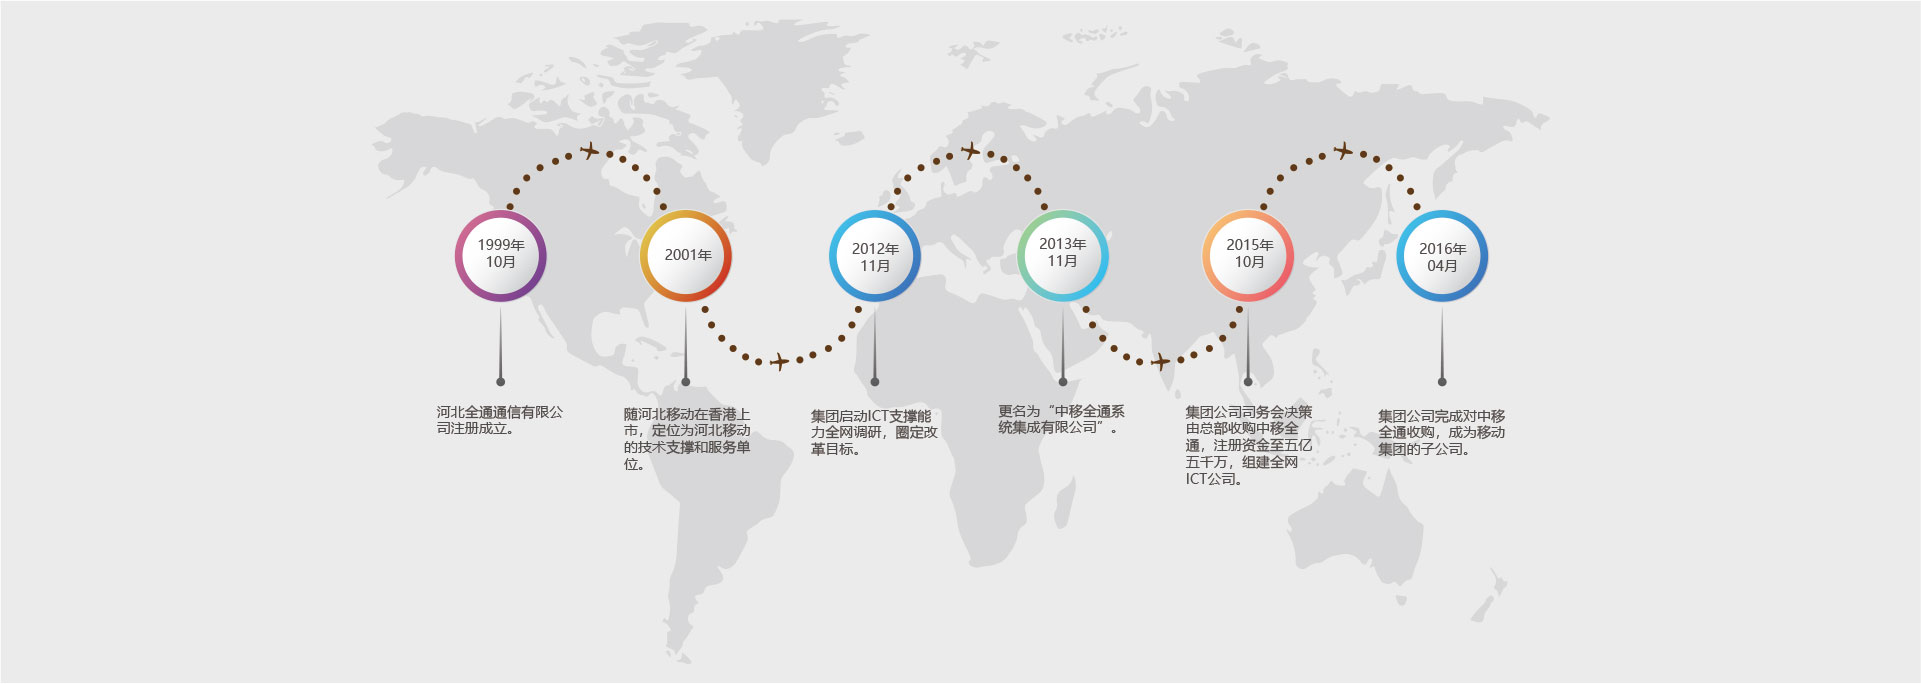
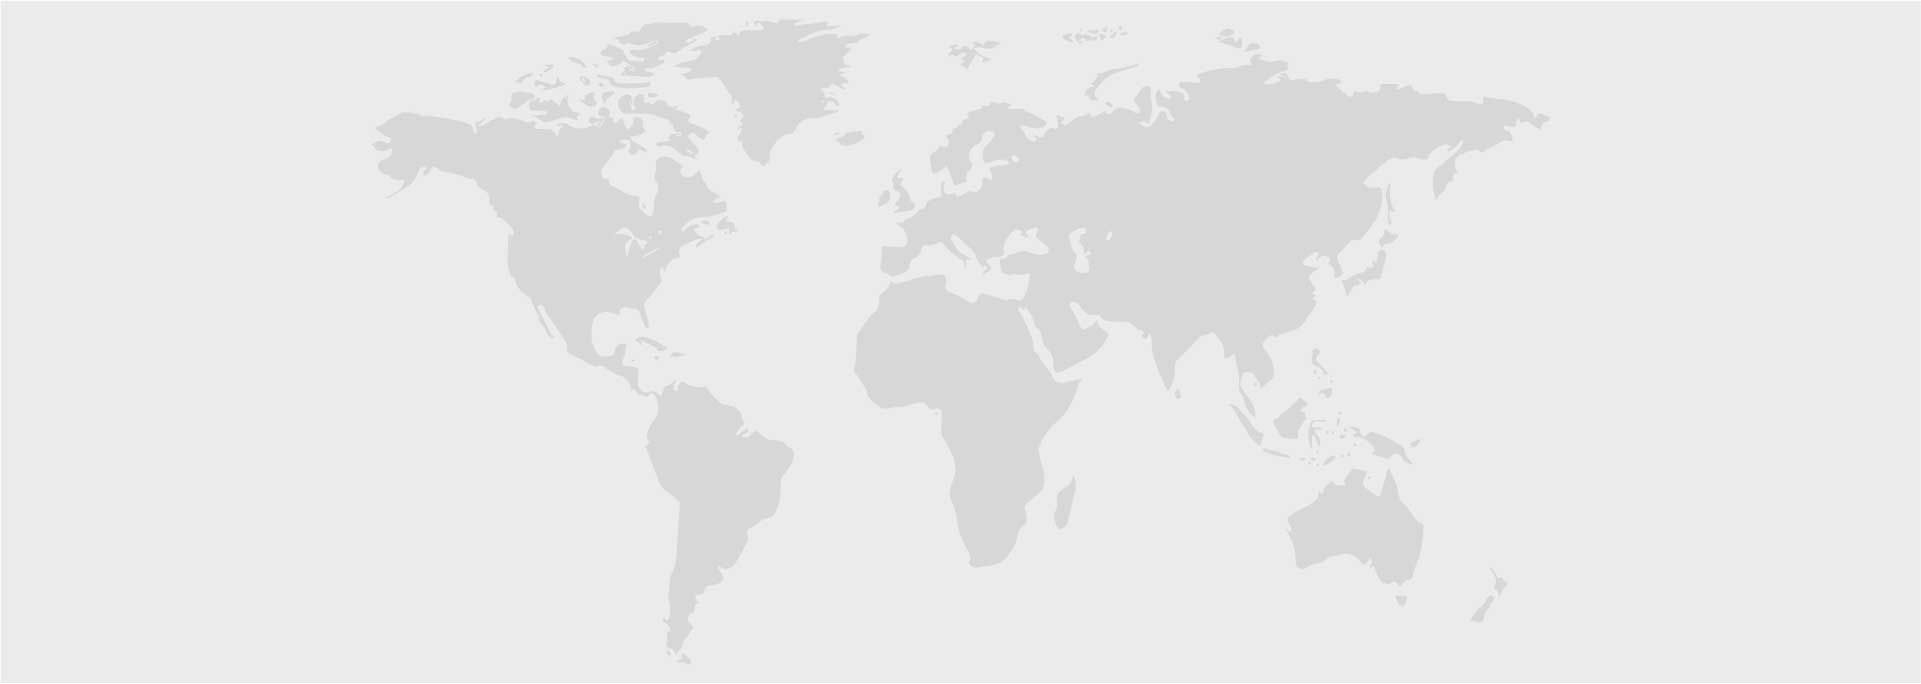
21:07

diff --git a/quantong/profile/index.html b/quantong/profile/index.html
@@ -110,7 +110,7 @@
 
   <div class="history">
     <div class="dev">
-      <!-- <img src="img/development.png" alt=""> -->
+      <img src="img/development.png" alt="">
     </div>
   </div>
 

diff --git a/quantong/profile/css/style.less b/quantong/profile/css/style.less
@@ -156,7 +156,7 @@
     padding-top: 150px;
     img {
       display: block;
-      width: 76.4%;
+      //width: 76.4%;
       margin: 0 auto;
     }
   }
